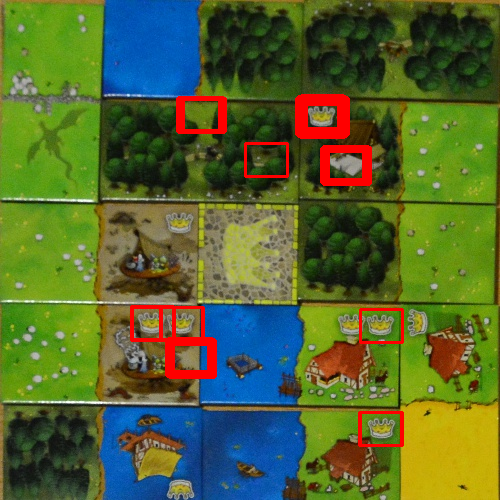
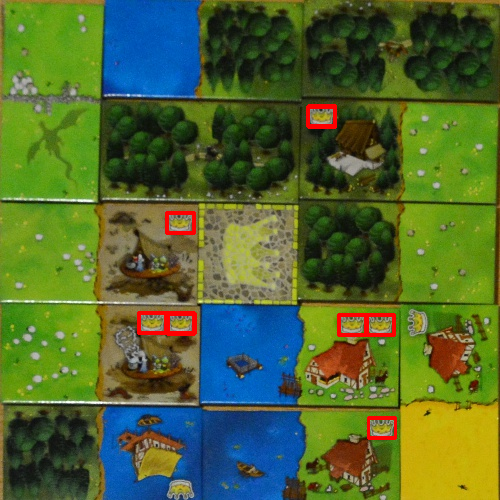
template matching fix

diff --git a/template_match.py b/template_match.py
@@ -1,11 +1,20 @@
+""" File: template_match.py
+
+Created on: Oct 2, 2023
+Authors:
+    Gustav Bay Nielsen
+    Nikolaj Bjoernager Krebs
+"""
+
 import cv2 as cv
 import numpy as np
 from matplotlib import pyplot as plt
 
+# NOTE: Works best with transparent templates.
 img_rgb = cv.imread('dat/cropped/1.jpg')
 assert img_rgb is not None, "file could not be read, check with os.path.exists()"
 img_gray = cv.cvtColor(img_rgb, cv.COLOR_BGR2GRAY)
-template = cv.imread('dat/templates/crown.jpg', cv.IMREAD_GRAYSCALE)
+template = cv.imread('dat/templates/Crown_up.png', cv.IMREAD_GRAYSCALE)
 assert template is not None, "file could not be read, check with os.path.exists()"
 w, h = template.shape[::-1]
 res = cv.matchTemplate(img_gray,template,cv.TM_CCOEFF_NORMED)
